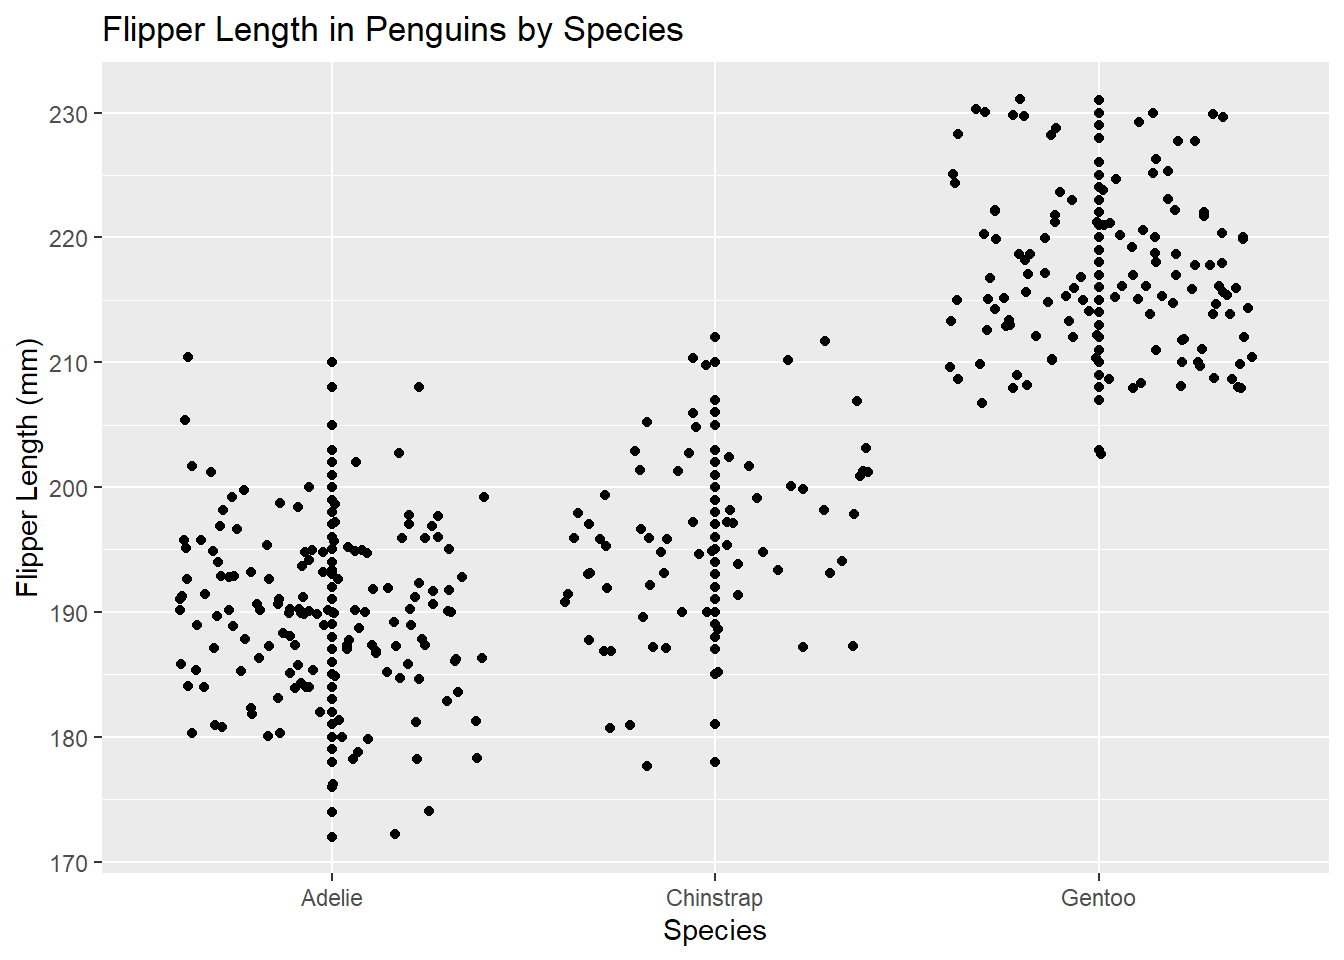
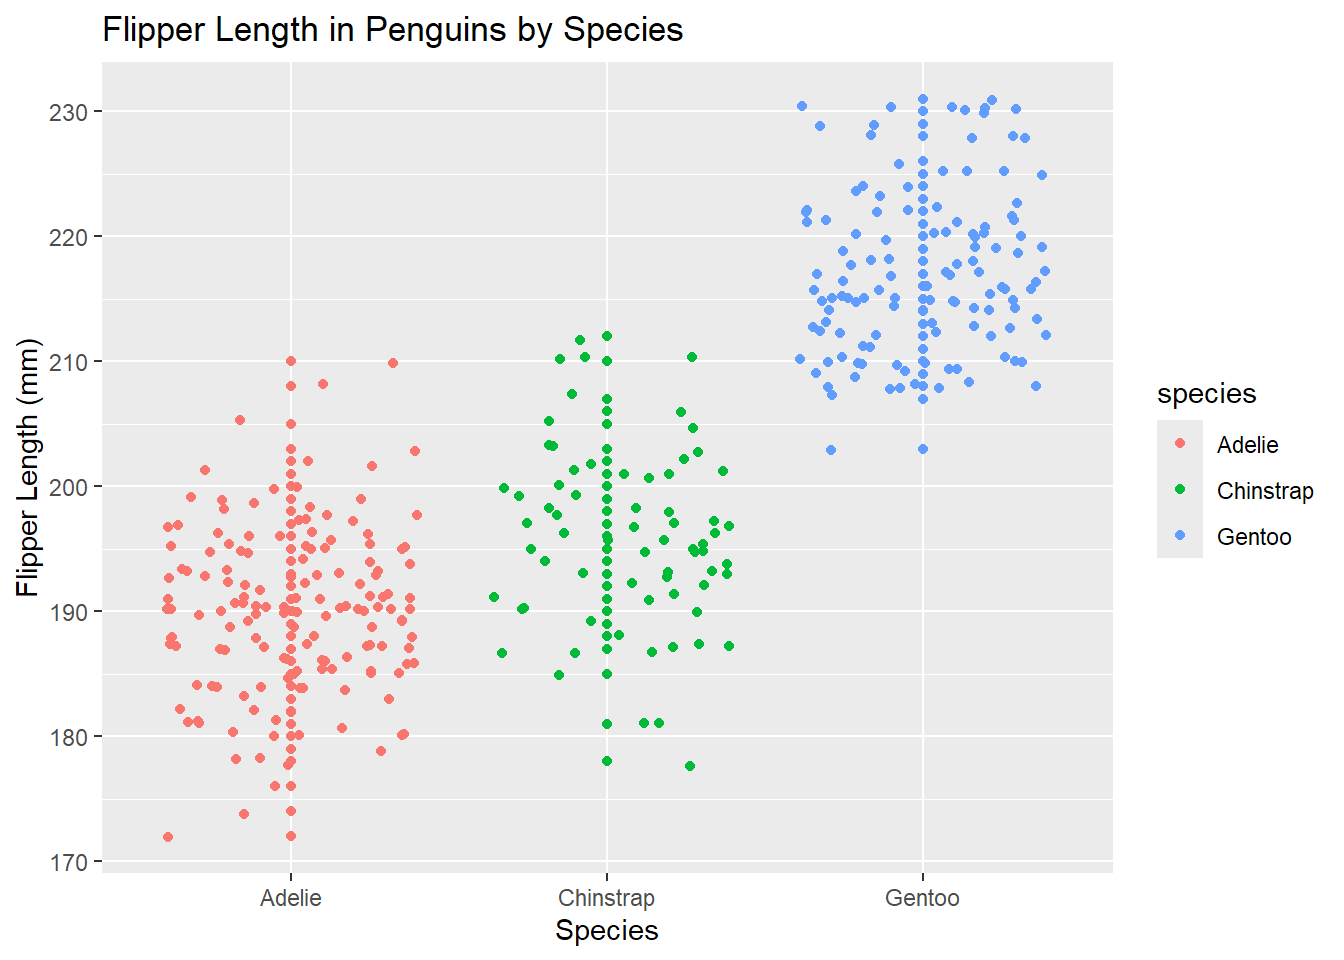
added color to the pengu plottt

diff --git a/eds212_day2_activities.html b/eds212_day2_activities.html
@@ -179,7 +179,7 @@ pre > code.sourceCode > span > a:first-child::before { text-decoration: underlin
 <div class="cell">
 <div class="sourceCode cell-code" id="cb7"><pre class="sourceCode r code-with-copy"><code class="sourceCode r"><span id="cb7-1"><a href="#cb7-1" aria-hidden="true" tabindex="-1"></a><span class="co">#and again</span></span>
 <span id="cb7-2"><a href="#cb7-2" aria-hidden="true" tabindex="-1"></a></span>
-<span id="cb7-3"><a href="#cb7-3" aria-hidden="true" tabindex="-1"></a><span class="fu">ggplot</span>(<span class="at">data =</span> my_data_range_2, <span class="fu">aes</span>(<span class="at">x =</span> a)) <span class="sc">+</span> <span class="fu">geom_function</span>(<span class="at">fun =</span> eq2)</span></code><button title="Copy to Clipboard" class="code-copy-button"><i class="bi"></i></button></pre></div>
+<span id="cb7-3"><a href="#cb7-3" aria-hidden="true" tabindex="-1"></a><span class="fu">ggplot</span>(<span class="at">data =</span> my_data_range_2, <span class="fu">aes</span>(<span class="at">x =</span> a)) <span class="sc">+</span> <span class="fu">geom_function</span>(<span class="at">fun =</span> eq2, <span class="at">color =</span> <span class="st">"blue"</span>)</span></code><button title="Copy to Clipboard" class="code-copy-button"><i class="bi"></i></button></pre></div>
 <div class="cell-output-display">
 <div>
 <figure class="figure">
@@ -198,7 +198,7 @@ pre > code.sourceCode > span > a:first-child::before { text-decoration: underlin
 <div class="cell">
 <div class="sourceCode cell-code" id="cb9"><pre class="sourceCode r code-with-copy"><code class="sourceCode r"><span id="cb9-1"><a href="#cb9-1" aria-hidden="true" tabindex="-1"></a><span class="co">#penguin time again ----</span></span>
 <span id="cb9-2"><a href="#cb9-2" aria-hidden="true" tabindex="-1"></a></span>
-<span id="cb9-3"><a href="#cb9-3" aria-hidden="true" tabindex="-1"></a><span class="fu">ggplot</span>(<span class="at">data =</span> penguins, <span class="fu">aes</span>(<span class="at">x =</span> species, <span class="at">y =</span> flipper_length_mm)) <span class="sc">+</span> <span class="fu">geom_point</span>() <span class="sc">+</span> <span class="fu">geom_jitter</span>() <span class="sc">+</span> <span class="fu">labs</span>(<span class="at">x =</span> <span class="st">"Species"</span>, <span class="at">y =</span> <span class="st">"Flipper Length (mm)"</span>, <span class="at">title =</span> <span class="st">"Flipper Length in Penguins by Species"</span>)</span></code><button title="Copy to Clipboard" class="code-copy-button"><i class="bi"></i></button></pre></div>
+<span id="cb9-3"><a href="#cb9-3" aria-hidden="true" tabindex="-1"></a><span class="fu">ggplot</span>(<span class="at">data =</span> penguins, <span class="fu">aes</span>(<span class="at">x =</span> species, <span class="at">y =</span> flipper_length_mm, <span class="at">color =</span> species)) <span class="sc">+</span> <span class="fu">geom_point</span>() <span class="sc">+</span> <span class="fu">geom_jitter</span>() <span class="sc">+</span> <span class="fu">labs</span>(<span class="at">x =</span> <span class="st">"Species"</span>, <span class="at">y =</span> <span class="st">"Flipper Length (mm)"</span>, <span class="at">title =</span> <span class="st">"Flipper Length in Penguins by Species"</span>)</span></code><button title="Copy to Clipboard" class="code-copy-button"><i class="bi"></i></button></pre></div>
 <div class="cell-output cell-output-stderr">
 <pre><code>Warning: Removed 2 rows containing missing values or values outside the scale range
 (`geom_point()`).
